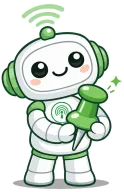
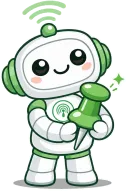
fix(mascot): antenna arcs of the dark pinned empty state on the dark paper
pose-empty-pinned-dark had a white stroke under the whole art; between the
three antenna arcs the gaps are narrower than twice the stroke, so the pale
green arcs sat on white (~1.6:1) and read as one blob in the dark theme.
Stroke pixels nearer to an arc than to the rest of the robot are dropped, so
the arcs sit on the dark paper: >= 6.2:1 against --paper and --surface with
--mascot-filter (opaque arc pixels, 1x and 2x), above the 3:1 of WCAG 1.4.11.
Re-imported with import-poses.sh (KEEP_DISTANCE=200, as before).

diff --git a/public/mascot/README.md b/public/mascot/README.md
@@ -79,6 +79,12 @@ dark theme: `empty-recent-dark` is the owner's outlined alternate, `empty-pinned
 white stroke to the same art (ImageMagick `-morphology Dilate Disk:10` on the alpha, white, under the picture). They
 carry meaning next to a short line, so they have translated alt text.
 
+`empty-pinned-dark` (after 0.5.1): the stroke filled the narrow gaps between the three antenna arcs, so the pale green arcs
+sat on white (about 1.6:1) and read as one light blob. The stroke pixels nearer to an arc than to the rest of the robot
+are dropped (each stroke pixel goes to the nearest part of the art), so the arcs sit on the dark paper: at least 6:1
+against `--paper` and `--surface` of the dark theme with `--mascot-filter`, above the 3:1 of WCAG 1.4.11; the rest of the
+outline is unchanged. Re-imported with `IMPORT_POSES_KEEP_DISTANCE=200`.
+
 ## Rules
 
 - Decorative by default: `alt=""` and `aria-hidden="true"`; the heading next to the picture carries the meaning. Only

diff --git a/CHANGELOG.md b/CHANGELOG.md
@@ -3,6 +3,14 @@
 All notable changes to this project are documented here ([Keep a Changelog](https://keepachangelog.com/en/1.1.0/),
 [Semantic Versioning](https://semver.org/)).
 
+## [Unreleased]
+
+### Fixed
+
+- **Dark theme: the antenna arcs of the "nothing pinned yet" robot are visible again.** Its white outline filled the
+  gaps between the arcs, so they blurred into one pale shape; the arcs now sit on the dark background (at least 6:1,
+  WCAG 1.4.11 asks for 3:1) and the rest of the outline is unchanged.
+
 ## [0.5.1] - 2026-11-06
 
 ### Security
